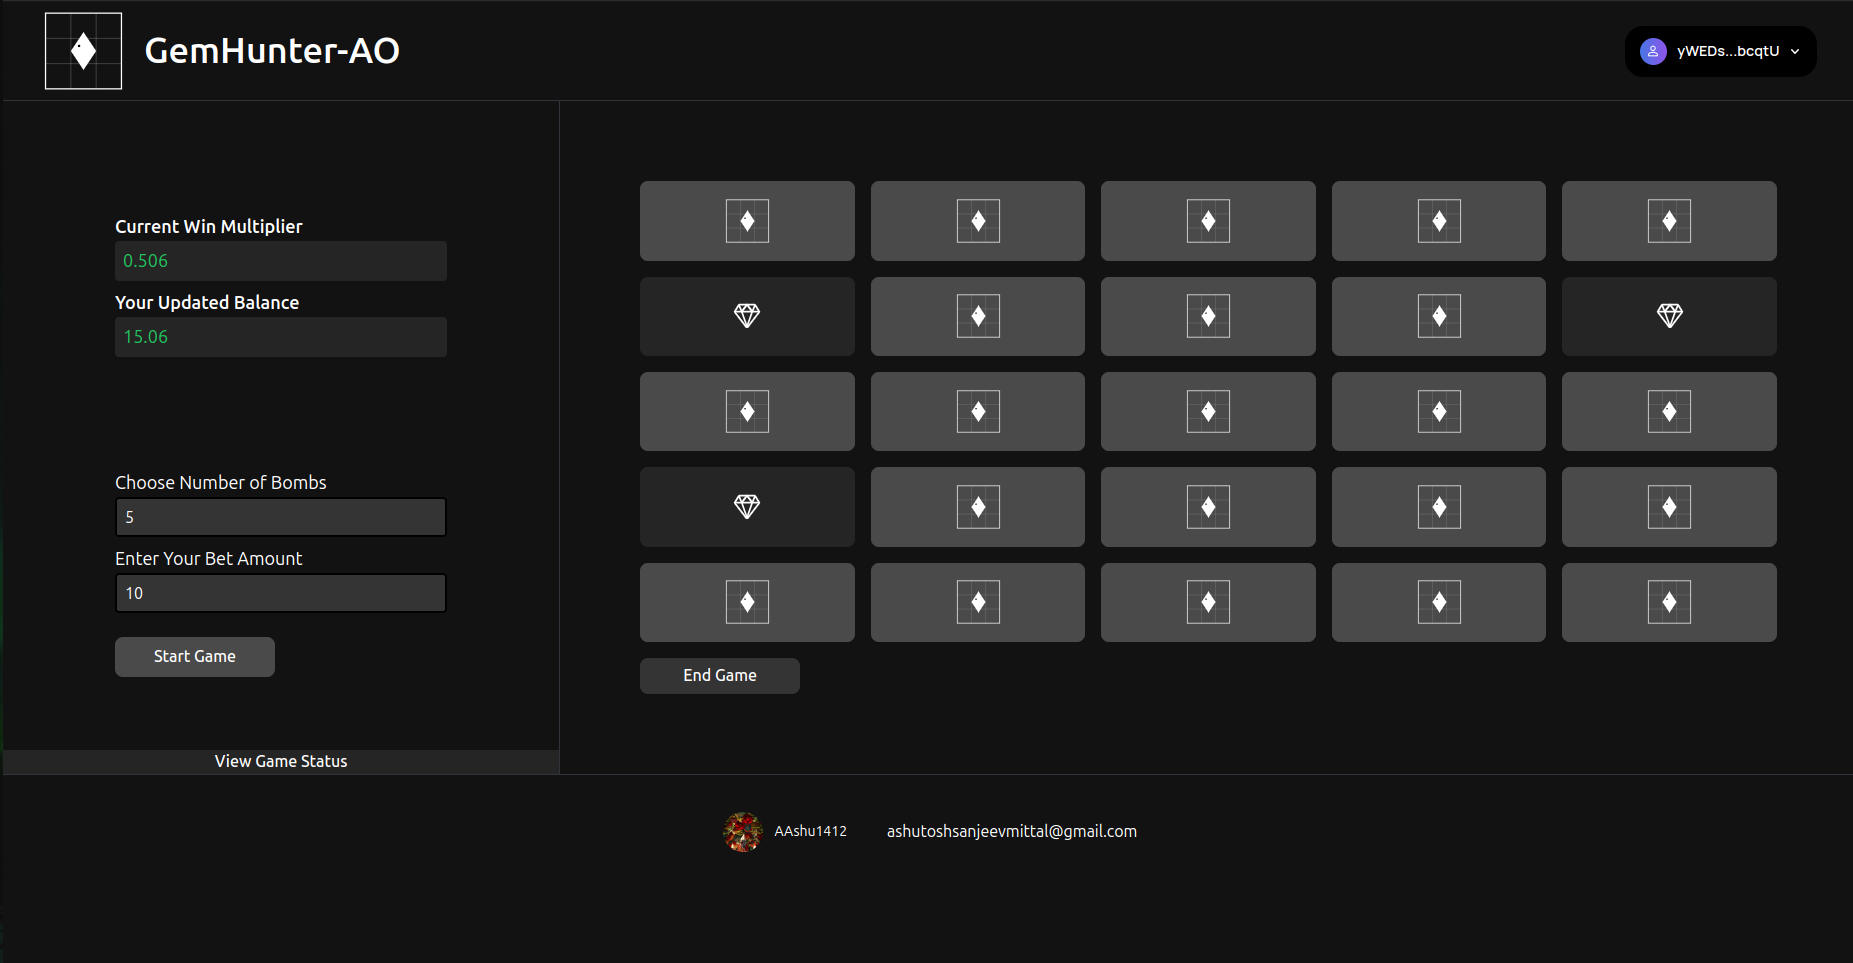
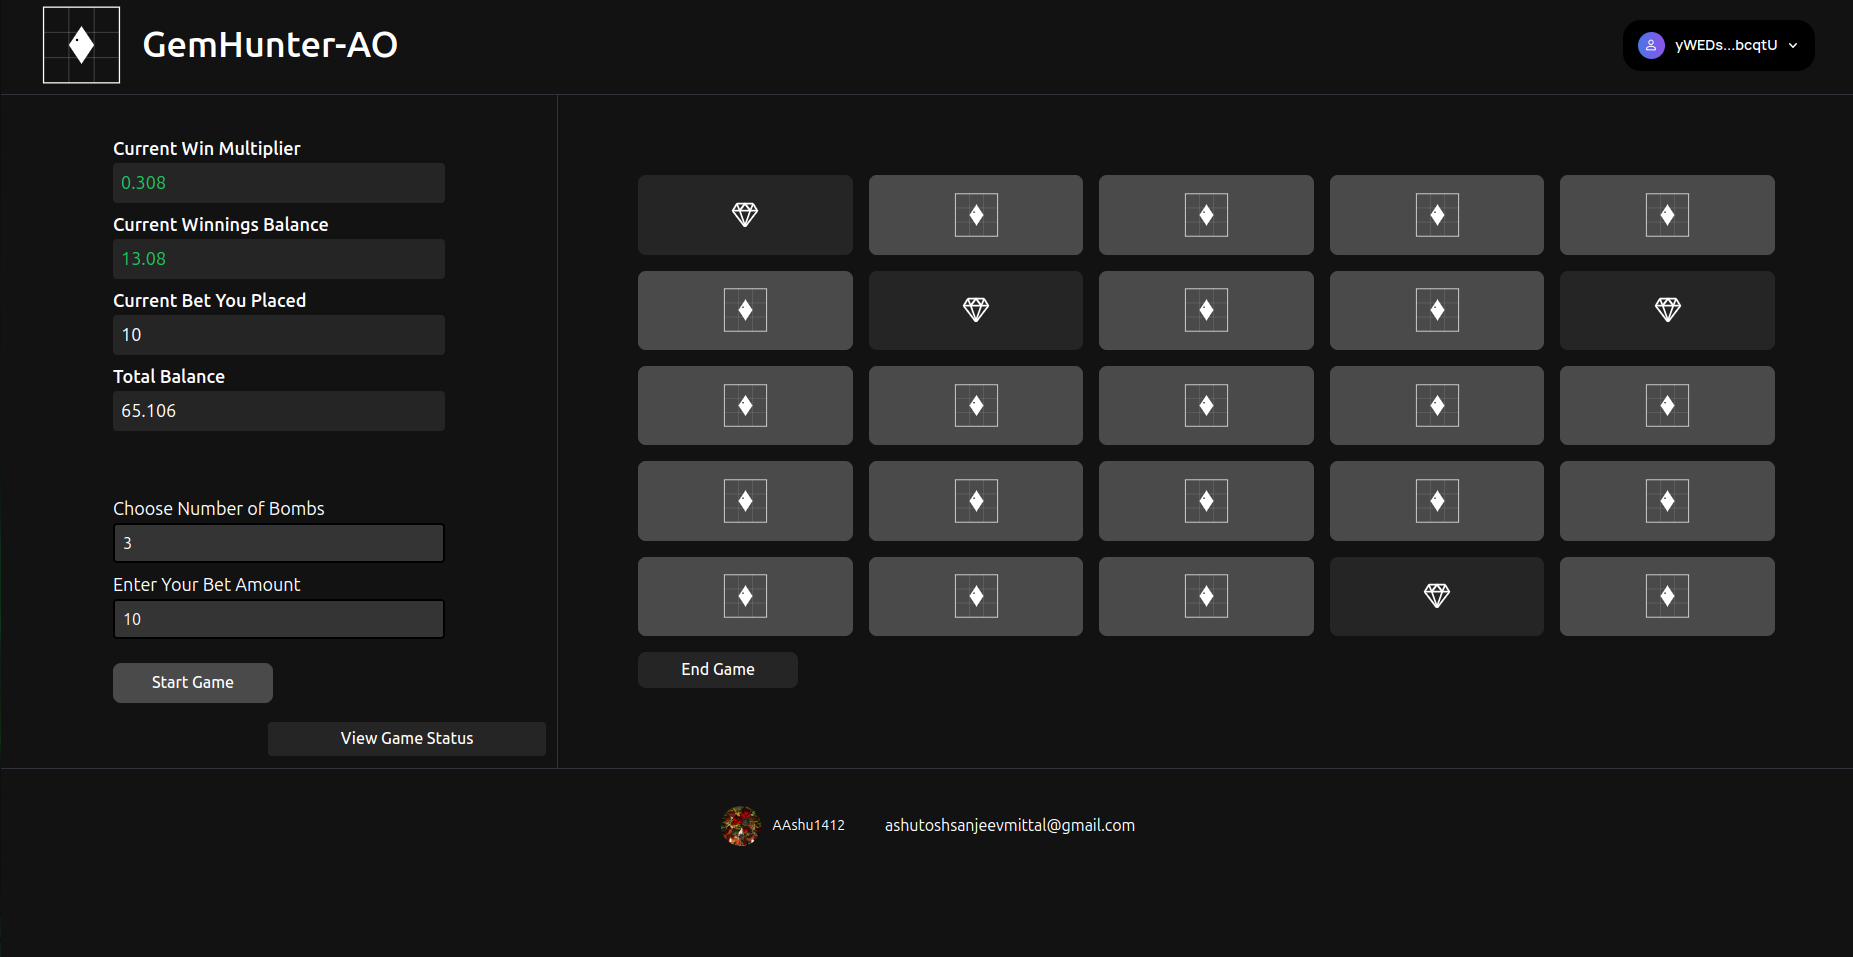
done 4

diff --git a/src/components/Home.jsx b/src/components/Home.jsx
@@ -614,10 +614,10 @@ export default function Home() {
             )}
           </form>
           {connected ? (
-            <Drawer className="">
+            <Drawer>
               <DrawerTrigger
                 ref={fileInputRef}
-                className="absolute bottom-0 w-full font-medium mt-4 bg-[#252525] hover:bg-[#343434]transition-colors flex justify-center items-center"
+                className="absolute bottom-3 w-[50%] right-0 mr-[2%] h-[5%] rounded-sm font-medium mt-4 bg-[#252525] hover:bg-[#343434]transition-colors flex justify-center items-center"
               >
                 View Game Status
               </DrawerTrigger>

diff --git a/README.md b/README.md
@@ -12,7 +12,21 @@
   <img src="./src/assets/gemhunter2.png" alt="GemHunter-AO Loss The Game" width="100%">
 </p>
 
-<p align="center">GemHunter-AO is a thrilling grid-based gambling game built on Arweave AO where players strategically navigate through a minefield of their own creation. Set your stakes, choose your mine count, and hunt for diamonds while avoiding the bombs you placed - each successful move increases your potential rewards!</p>
+<p align="center">
+  GemHunter-AO is an engaging, grid-based gambling game built with Lua and lsqlite3, designed for players to test their luck and strategy. 
+
+  In this game:
+  - Players stake an amount and select the number of bombs hidden on a 5x5 grid of closed tiles. The more bombs selected, the higher the potential reward. 
+  - Players open tiles to discover diamonds, which increase their earnings. Each time a player uncovers a diamond, their earnings increase, bringing them closer to a higher payout.
+  - However, a wrong choice of bomb results in the loss of their stake.
+  - Players can end the game at any time to secure their winnings. 
+
+  **Winning**:  
+  If players successfully open all the tiles containing diamonds and avoid the bombs, their earnings are further boosted by a **5x multiplier**, providing a significant reward.
+
+  The game tracks player progress using an lsqlite3 database, ensuring that players can resume from where they left off, even after exiting.
+</p>
+
 
 ## [Live Demo](https://gem-hunter-ao.vercel.app/)
 
@@ -25,6 +39,7 @@
 - [Introduction](#introduction)
   - [Techstack](#techstack)
   - [Key Features](#key-features)
+  - [How It Works](#how-it-works)
 - [How to setup](#how-to-setup)
   - [Clone the repo](#clone-the-repo)
   - [Install dependencies](#install-dependencies)
@@ -34,11 +49,15 @@
 
 # Introduction
 
-GemHunter-AO brings the classic minesweeper concept into the world of blockchain gaming with an exciting twist - players set their own difficulty by choosing how many mines to play against. Built on Arweave's AO platform, this 5x5 grid-based game combines strategy, risk management, and the thrill of increasing rewards with each successful move.
+Welcome to **GemHunter-AO**, a thrilling grid-based gambling game where strategy, luck, and timing determine your rewards. In this game, players can choose a grid filled with hidden mines, each holding the potential for significant wins or losses. Your goal is to uncover diamonds and increase your earnings by selecting tiles on a 5x5 grid without hitting a bomb.
+
+The more bombs you choose, the higher the potential reward, and for every diamond you uncover, your earnings increase by `0.002` times.
+
+If you're able to successfully avoid the bombs and uncover all the diamonds, your winnings are further amplified by a `5x` multiplier, rewarding your skill and strategy. Players can stop the game at any point to cash out, and their game data is securely stored in a **Lua lsqlite3** database, ensuring that they can continue from where they left off, even if they leave mid-game.
+
+**Developed for the Hacker House event by Arweave India**, GemHunter-AO combines excitement with innovation, providing a captivating and rewarding gaming experience.
 
 **[Try it out here!](https://gem-hunter-ao.vercel.app/)**
-
-The game mechanics are elegantly simple yet deeply engaging: place your mines, set your stake, and start hunting for diamonds. Each successful tile reveal increases your potential winnings, but one wrong move could cost you everything. Will you play it safe and cash out early, or risk it all for bigger rewards?
 
 ## Techstack
      
@@ -51,31 +70,42 @@ The game mechanics are elegantly simple yet deeply engaging: place your mines, s
 
 ## Key Features
 
-### Customizable Risk Levels
-- Choose your own mine count (higher count = higher potential rewards)
-- Strategic mine placement for personalized gameplay
-- Dynamic reward multiplier based on mine count (mines÷10 + 1)
+### 🎮 **Dynamic Grid Gameplay**
+- Players choose from a 5x5 grid of closed tiles, with each tile containing either a **bomb** or a **diamond**. The goal is to open tiles without hitting a bomb to increase your earnings.
 
-### Progressive Rewards System
-- Initial reward calculation: (mines÷10 + 1) × stake amount
-- Incremental increase of 0.002× per successful tile reveal
-- Flexible cash-out option available at any time
+### 💰 **Stake and Reward System**
+- Players stake an amount before the game begins. The potential reward increases based on the number of bombs selected.
+- The reward formula takes into account both the number of bombs and the number of successful tile openings.
 
-### Interactive Gameplay
-- 5×5 grid offering 25 possible positions
-- Real-time reward calculation and display
-- Instant win/loss feedback
-- Simple and intuitive user interface
+### 💾 **Real-Time Data Storage**
+- All player progress is saved using a **Lua lsqlite3** database, enabling seamless game continuation, even if the player exits mid-session.
 
-### Smart Contract Integration
-- Secure stake management
-- Transparent reward distribution
-- Verifiable randomness for mine placement
+### ⚙ **Customizable Difficulty**
+- Players can choose the number of bombs they want on the grid. The more bombs chosen, the greater the potential reward.
 
-### Player Control
-- Choose when to end the game and collect rewards
-- Strategic decision-making between risk and reward
-- Real-time tracking of potential winnings
+### 🚀 **Game Progression and Win Mechanism**
+- Every tile opened increases the reward by a fixed amount (**0.002**).
+- Discovering diamonds helps players accumulate more winnings. 
+- **Win Bonus**: If players successfully open all the tiles containing diamonds without hitting a bomb, their earnings are boosted by a **5x multiplier**. Players can choose to cash out anytime to secure their winnings.
+
+### 🔄 **Game Continuation Feature**
+- Players can leave the game and return later to continue from where they left off, with all previous game data preserved.
+
+### ✋ **Flexible Exit Option**
+- Players can choose to end the game at any time, ensuring they don’t lose their stake unexpectedly.
+
+### 📊 **Tracking and Review**
+- Players can review their current match details and past game history within the app, making the game experience more engaging and rewarding.
+
+
+## How It Works
+
+1. **Stake your bet**: Choose your bet amount and select how many bombs you want to hide in the grid.
+2. **Open tiles**: Start opening tiles. For every diamond found, your earnings increase.
+3. **Avoid bombs**: Be careful—hitting a bomb means losing your stake. If you choose to stop before opening a bomb, you can cash out with your accumulated earnings.
+4. **Winning**: Successfully open all the diamond tiles without hitting a bomb, and enjoy a 5x multiplier bonus on your winnings.
+5. **Seamless Continuation**: All progress is saved in real-time, so you can pick up where you left off whenever you return.
+
 
 # How to setup
 ## Clone the repo
